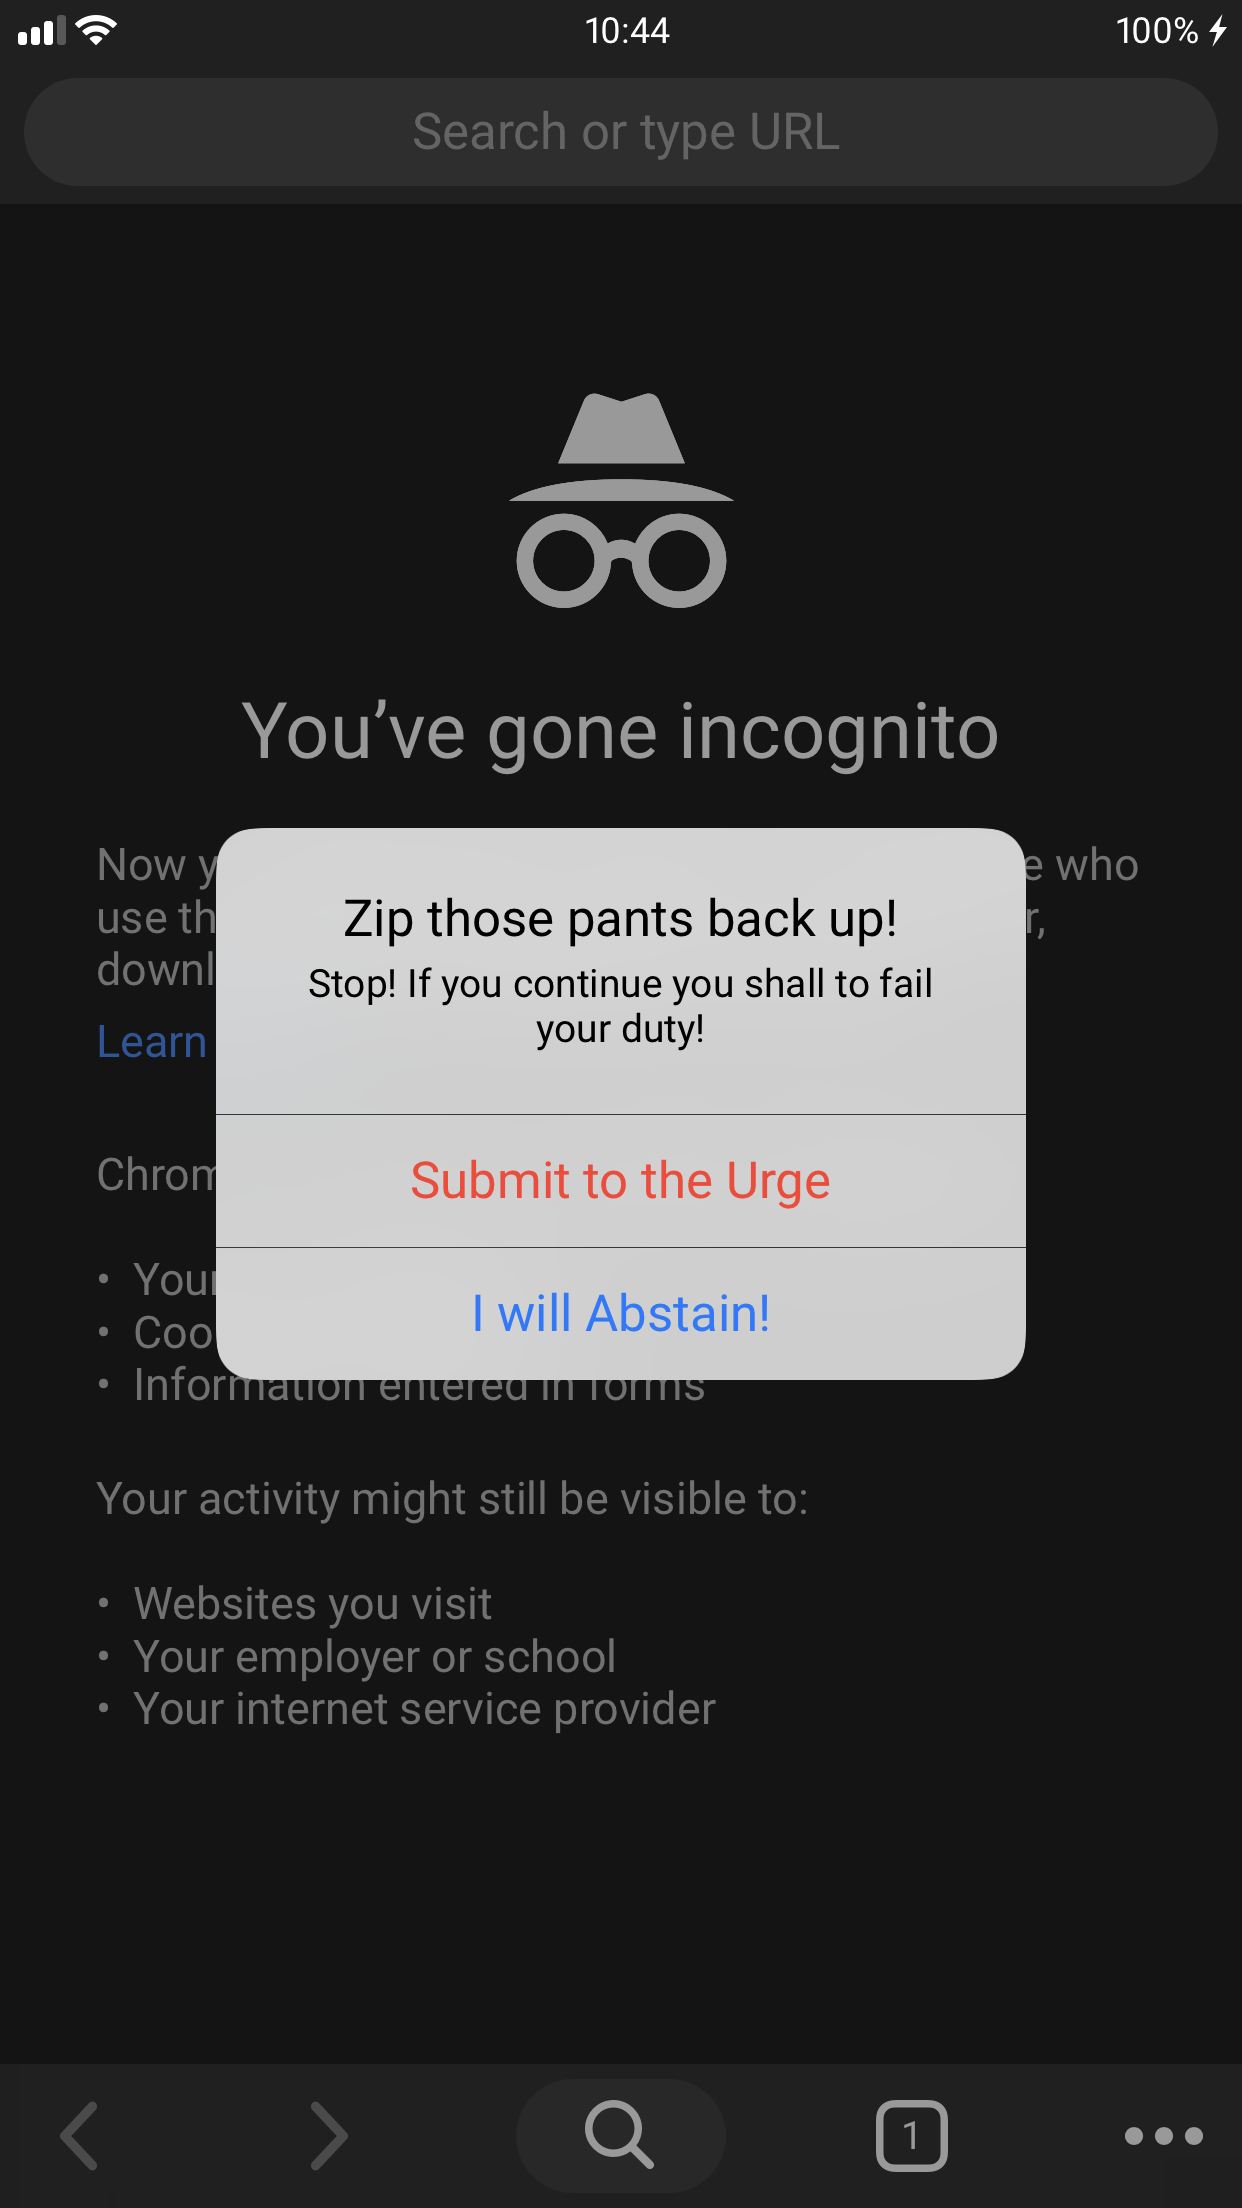
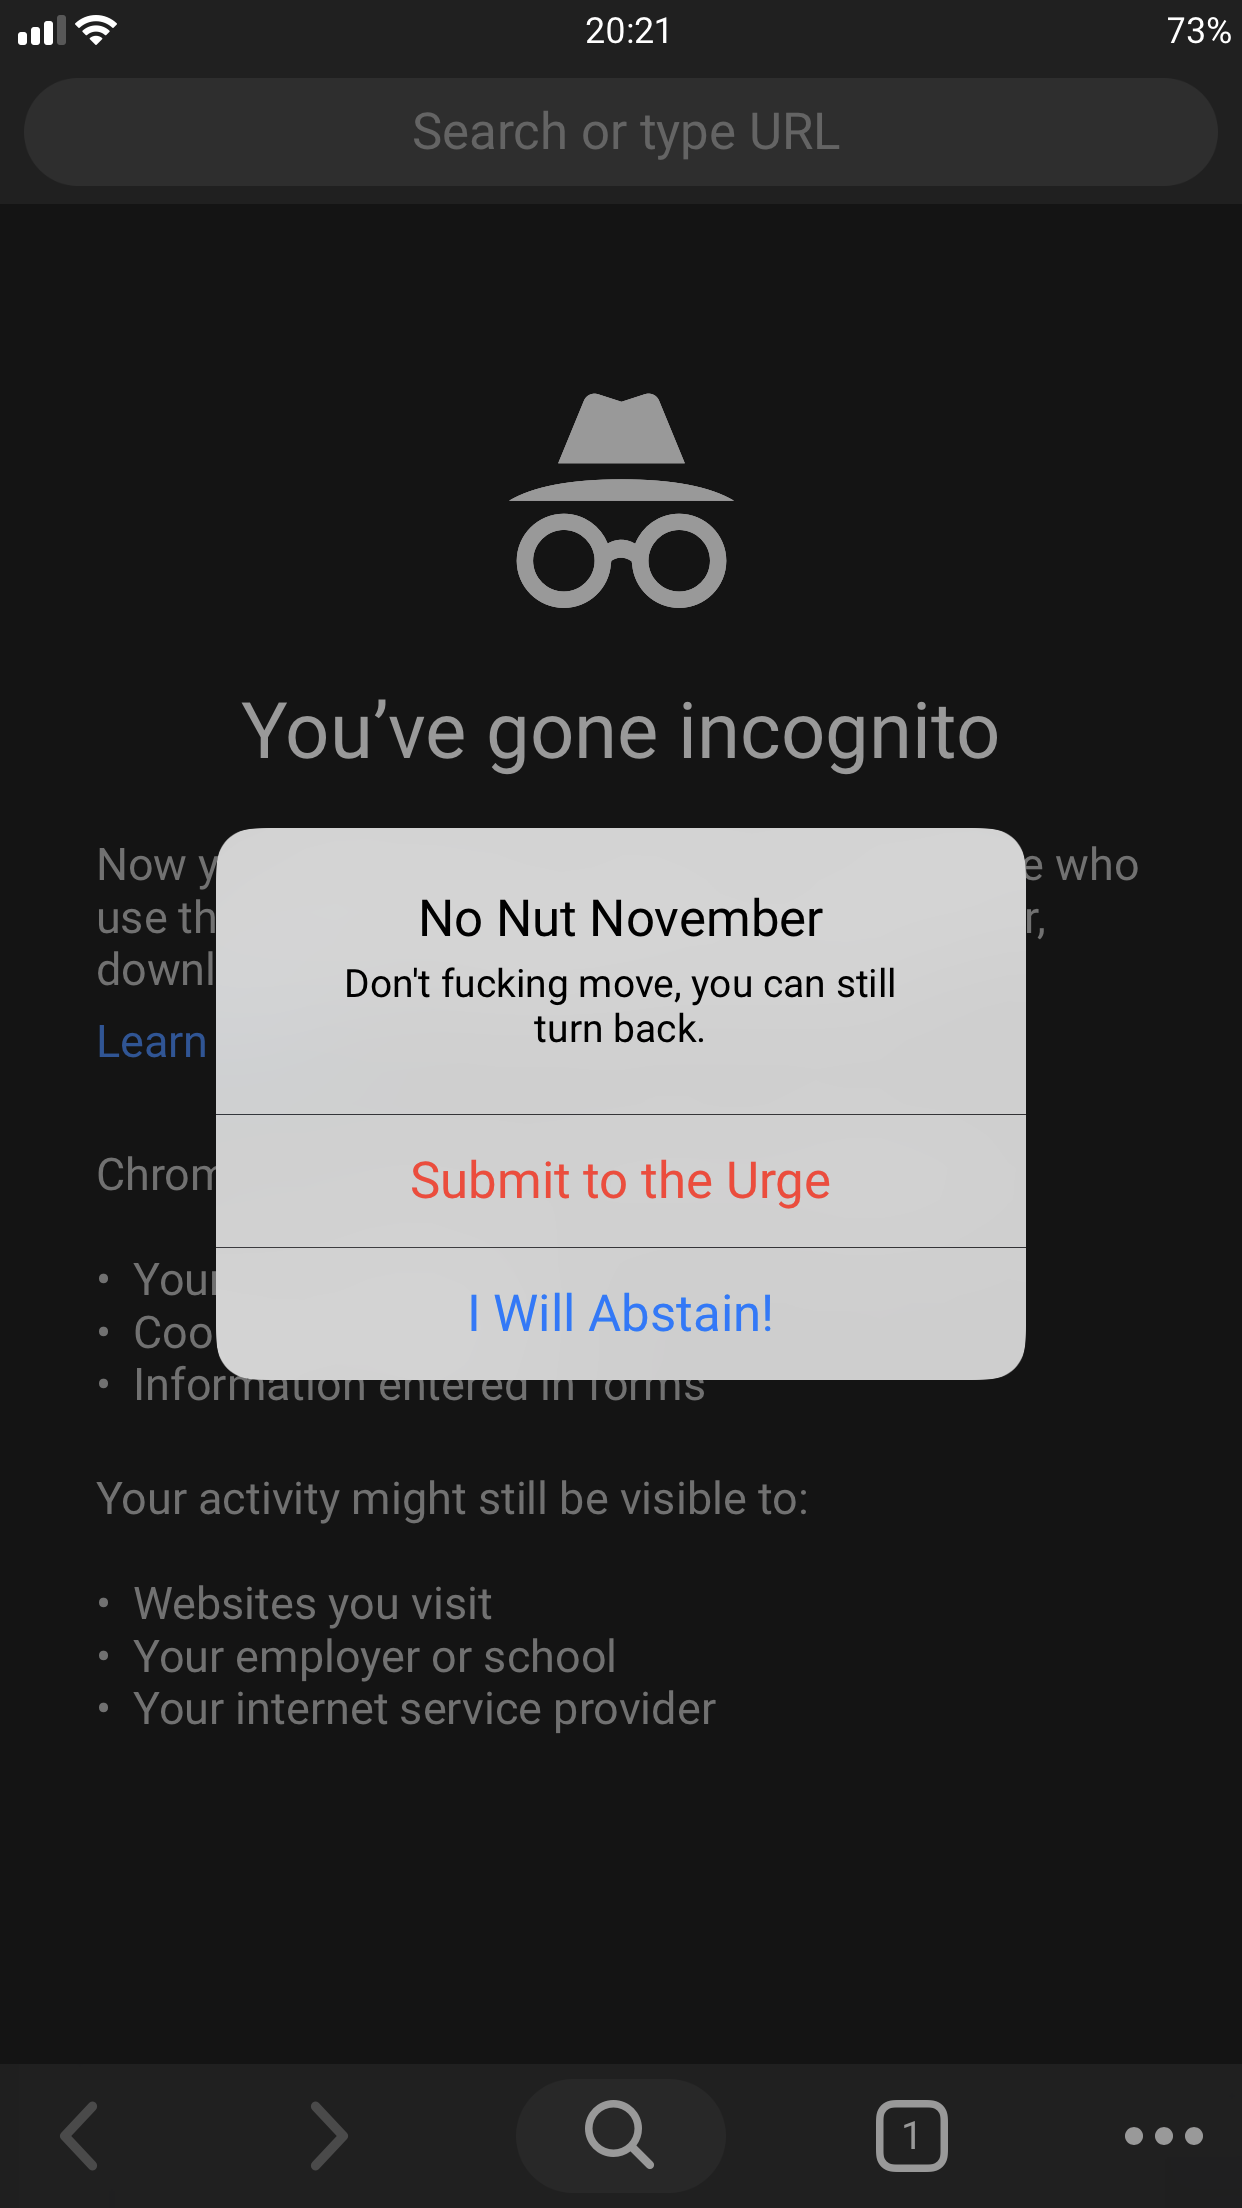
Update 1.1

diff --git a/depictions/com.lacertosusrepo.nonut/index.html b/depictions/com.lacertosusrepo.nonut/index.html
@@ -20,9 +20,9 @@
 <label>Info</label>
 <fieldset>
 <div>
-<p>Give yourself a second chance from failing No Nut November!</p>
+<p>Give yourself a second chance from failing No Nut November! Now with customizable message.</p>
 <br>
-<p>Currently compatible with Chrome v70.0.3538.75, future app support to come along with customizable messages.</p>
+<p>Currently compatible with Safari and Chrome v70.0.3538.75.</p>
 <br>
 <p>Requested by /u/hereforthesnap</p>
 </div>

diff --git a/depictions/com.lacertosusrepo.nonut/changelog.html b/depictions/com.lacertosusrepo.nonut/changelog.html
@@ -17,6 +17,14 @@
 <p>NoNut Changelog</p>
 </block>
 
+<label>Version 1.1 (11/5/2018)</label>
+<fieldset>
+<div>
+<p>Preferences!</p>
+<p>Custom Alert Option</p>
+</div>
+</fieldset>
+
 <label>Version 1.0 (11/4/2018)</label>
 <fieldset>
 <div>

diff --git a/depictions/com.lacertosusrepo.nonut/screenshots.html b/depictions/com.lacertosusrepo.nonut/screenshots.html
@@ -20,6 +20,14 @@
 
 <img src="./screenshots/1.png" width="100%">
 
+<br>
+<br>
+<img src="./screenshots/2.png" width="100%">
+
+<br>
+<br>
+<img src="./screenshots/3.png" width="100%">
+
 </center>
 </div>
 </fieldset>
